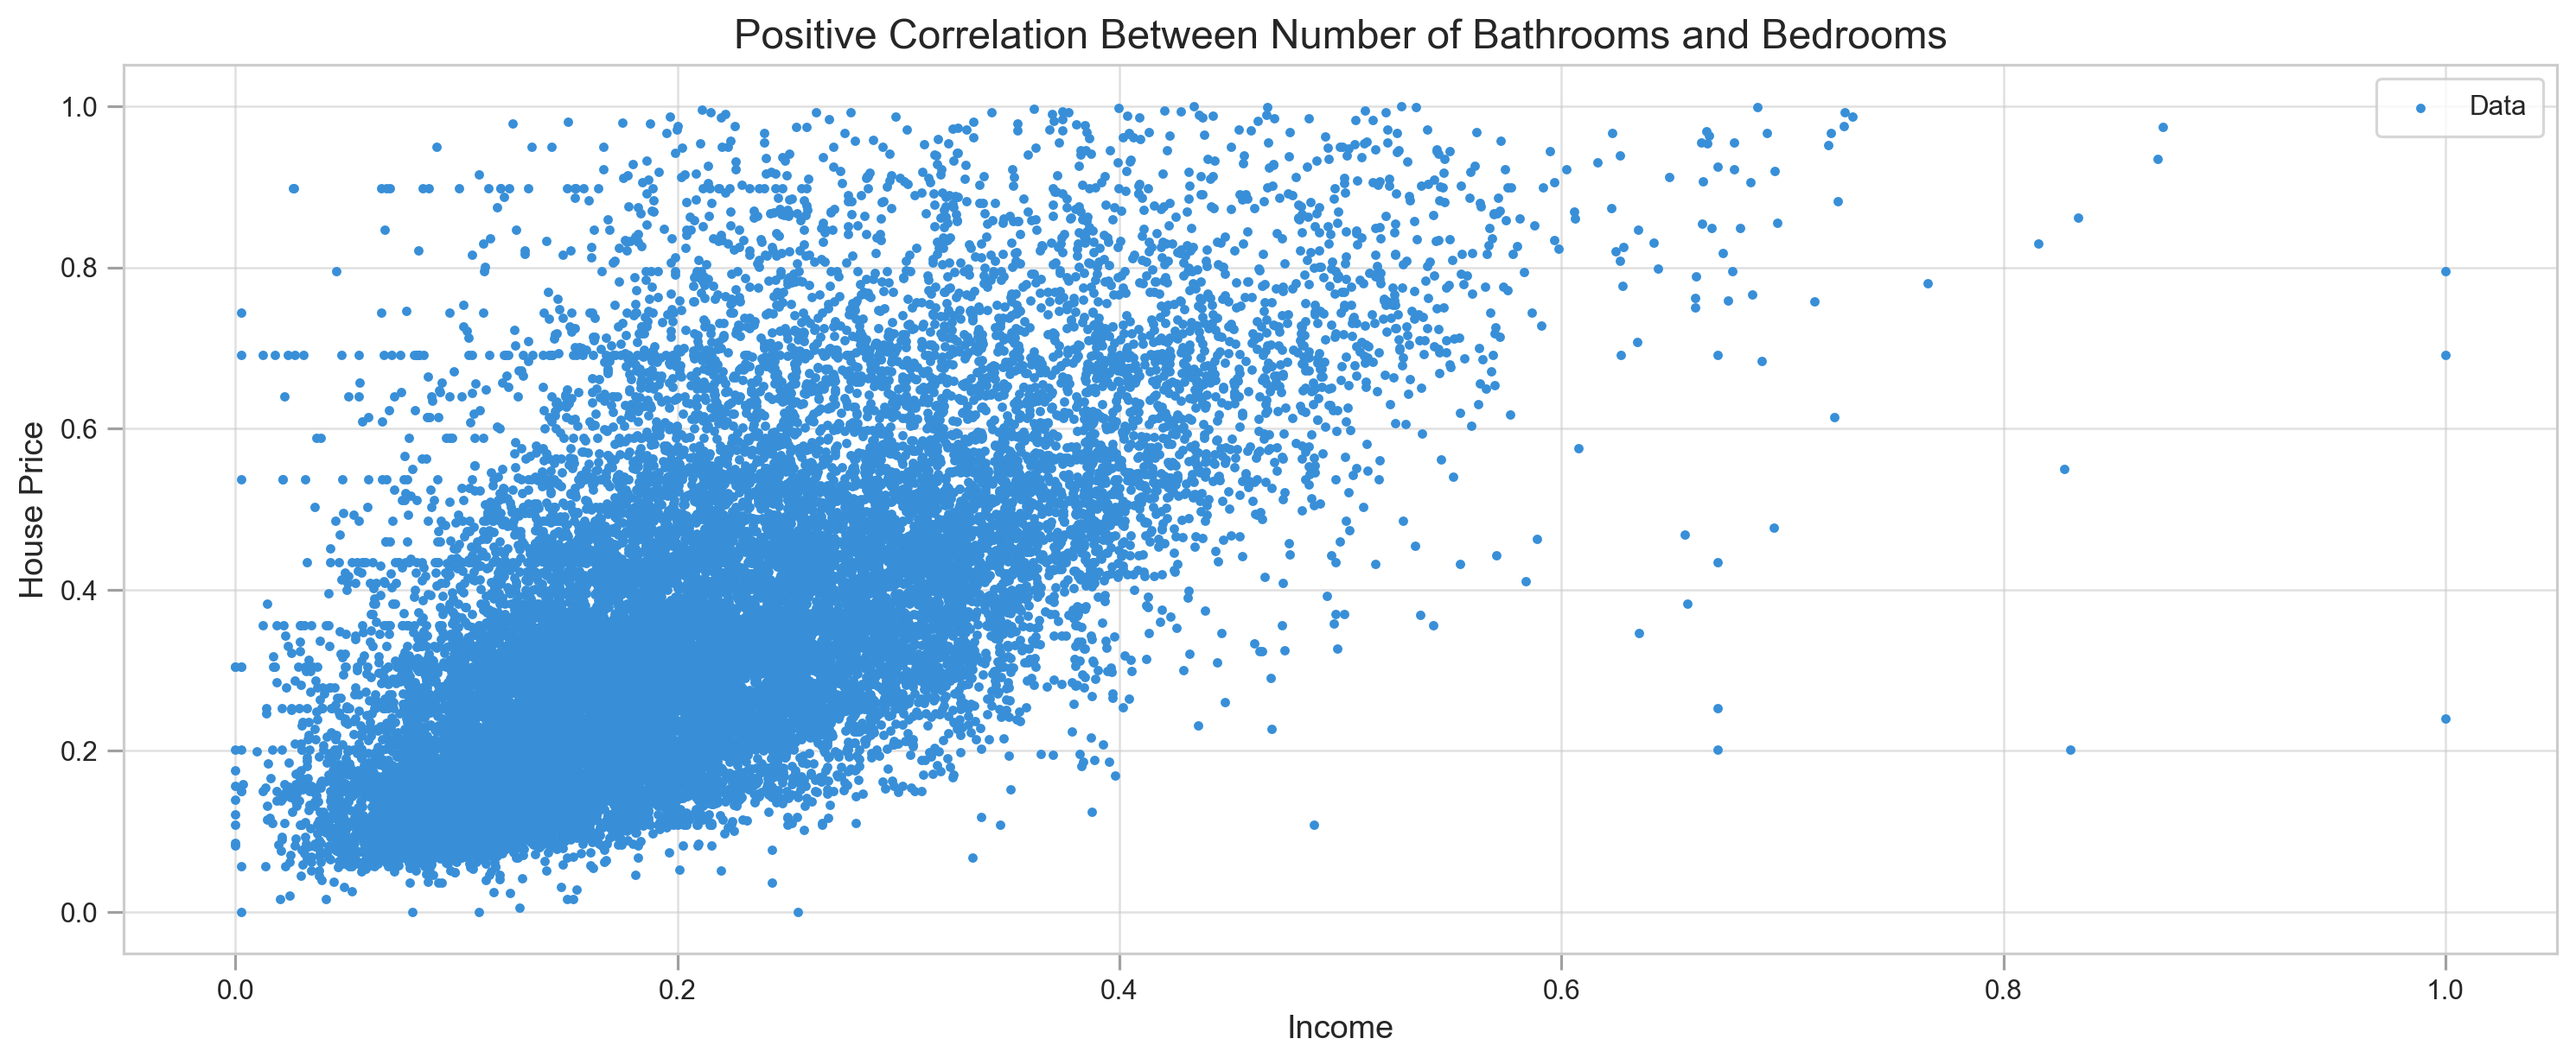
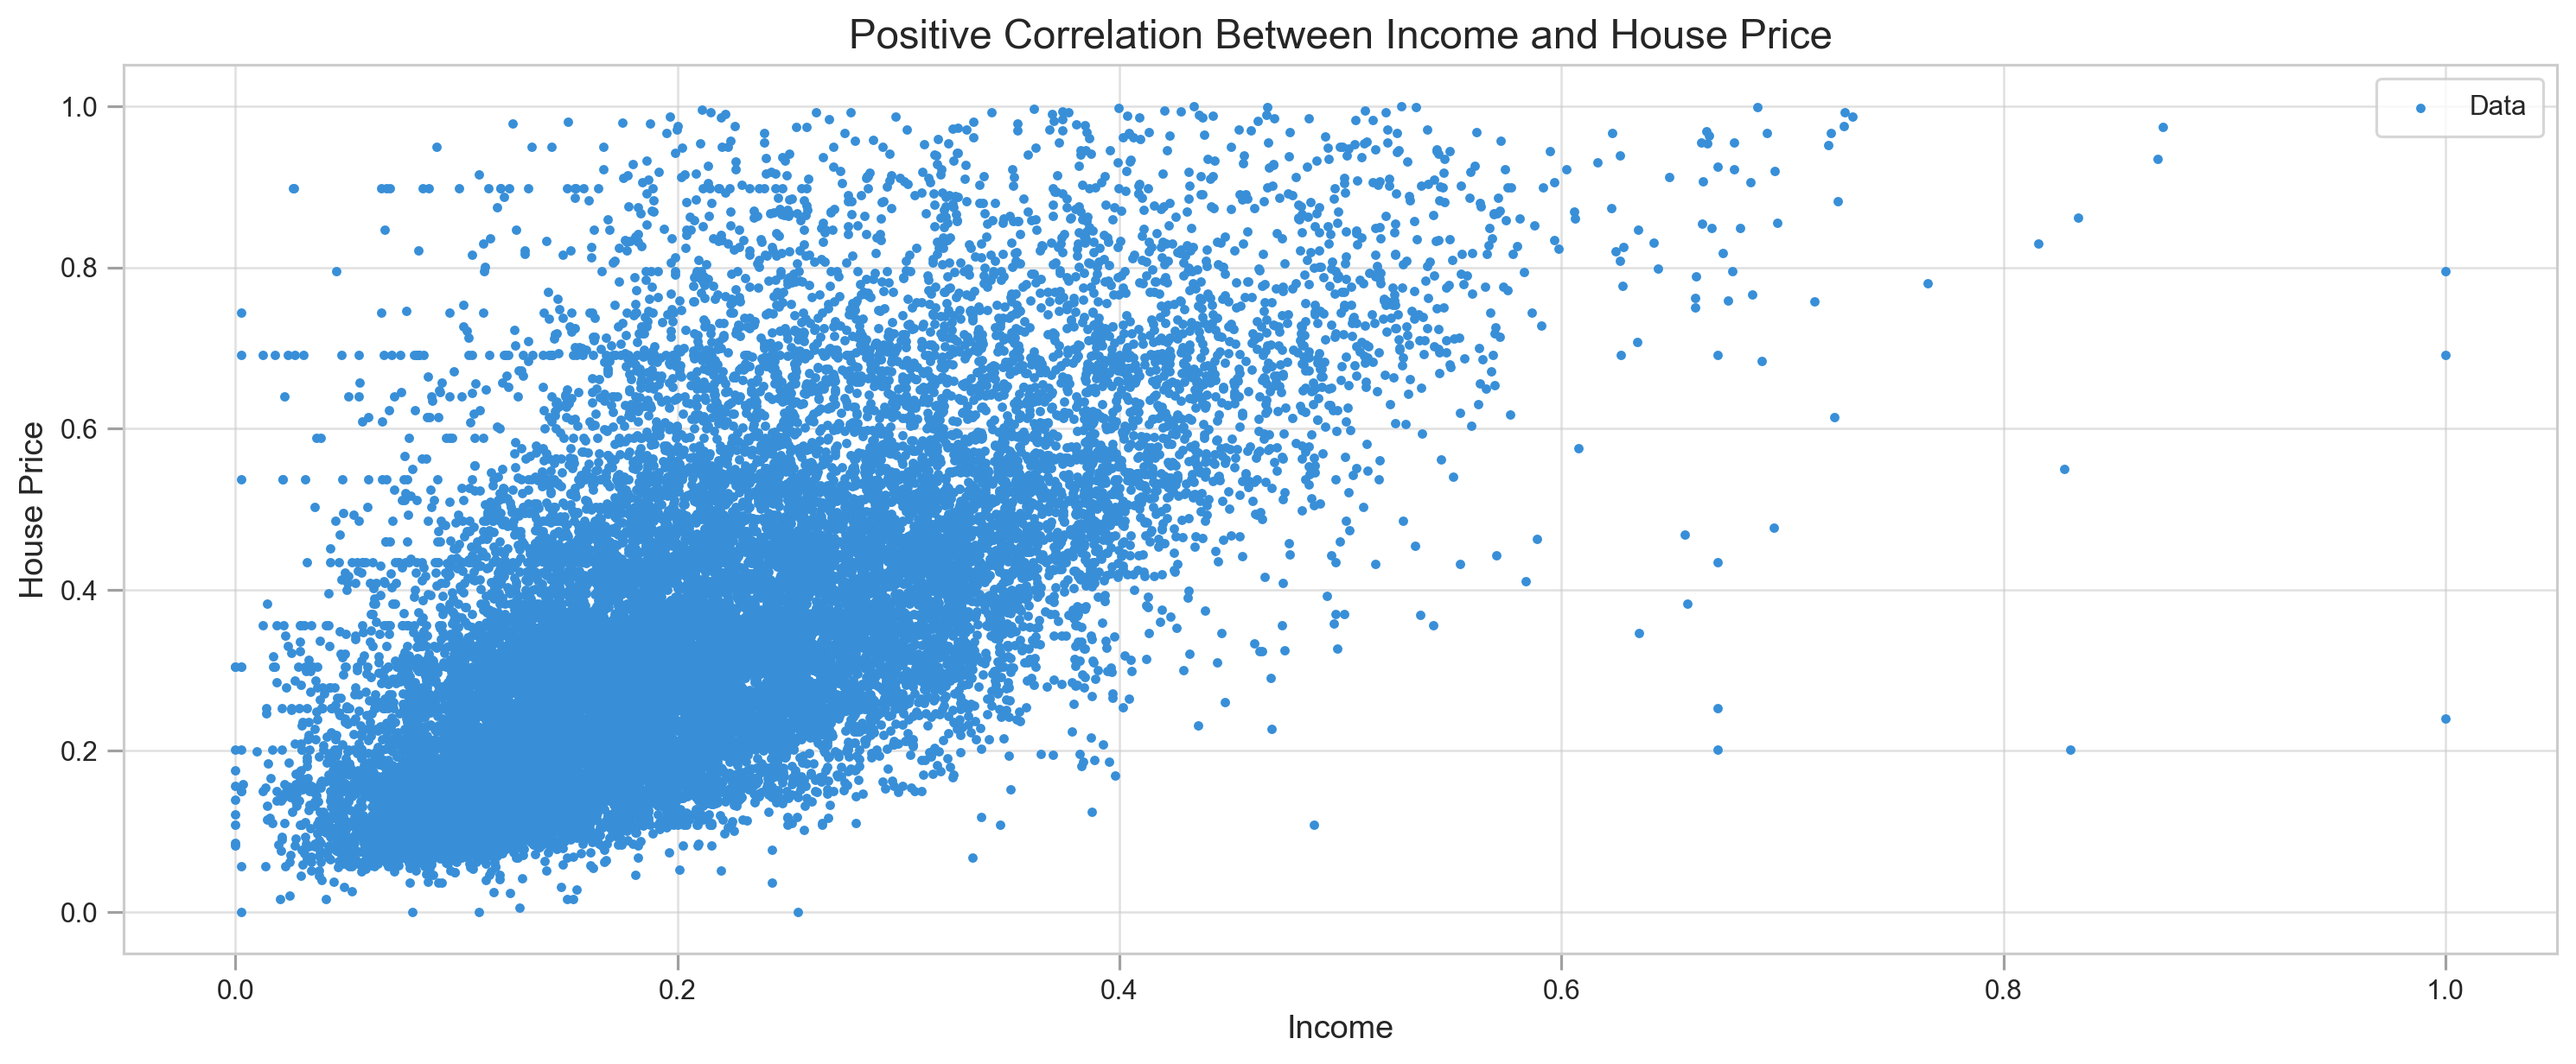
fixes

Changed region(s): [[0.2809, 0.0, 0.749, 0.0617]]

diff --git a/README.md b/README.md
@@ -416,7 +416,7 @@ plt.figure(figsize=(16,6))
 plt.rcParams['figure.dpi'] = 227
 plt.style.use('seaborn-whitegrid')
 plt.scatter(X, y, label='Data', c='#388fd8', s=6)
-plt.title('Positive Correlation Between Number of Bathrooms and Bedrooms', fontSize=15)
+plt.title('Positive Correlation Between Income and House Price', fontSize=15)
 plt.xlabel('Income', fontSize=12)
 plt.ylabel('House Price', fontSize=12)
 plt.legend(frameon=True, loc=1, fontsize=10, borderpad=.6)
@@ -501,7 +501,7 @@ y_pred = linreg.predict()
 
 ```python
 print("MSE:",mean_squared_error(y, y_pred))
-plot_regression(X, y, y_pred, title="Regression Line Approximating Bedrooms to Bathrooms Ratio")
+plot_regression(X, y, y_pred, title="Linear Regression")
 ```
 
     MSE: 0.023408891983089833
